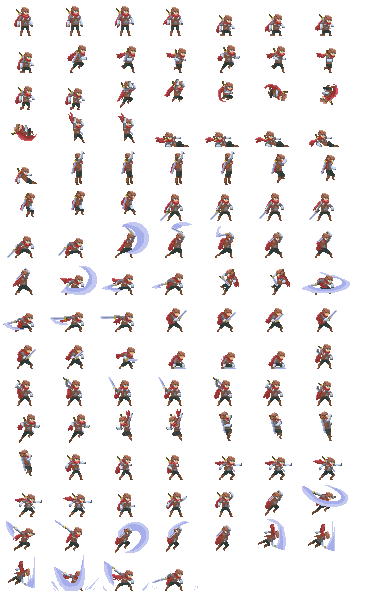
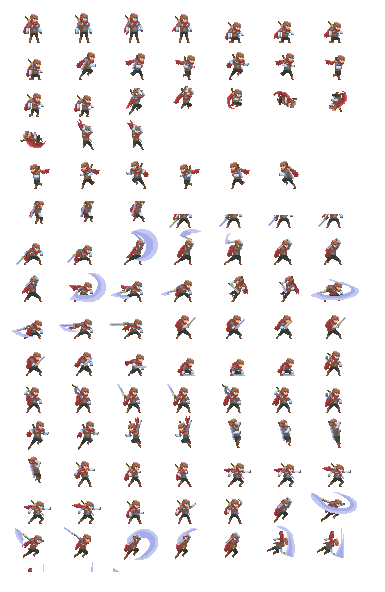
working left/right/idle animation, wow finally

diff --git a/src/animation.js b/src/animation.js
@@ -9,54 +9,83 @@ export default class Animator {
         this.delay = 25;
         this.frame = 0;
         this.frame_index = 0;
-        this.frame_set = 
+        this.frame_set =
             [
-                [0,1,2,3],
-                [9, 10, 11, 12, 13, 14]
+                [0, 1, 2, 3],
+                [9, 10, 11, 12, 13, 14],
+                [32, 33, 34, 35, 36, 37]
             ]
-        
+
 
     }
 
     update() {
-        // if(this.player.speed > 0) {
-        //     this.direction = 1;
-        // }
-        // if(this.player.speed < 0) {
-        //     this.direction = 1;
-        // }
-        // if(this.player.speed === 0) {
-        //     this.direction = 0;
-        // }     
-        this.count ++;
+        this.count++;
         if (this.count >= this.delay) {
             this.count = 0;
             this.frame_index = (this.frame_index == this.frame_set[this.direction].length - 1) ? 0 : this.frame_index + 1;
             this.frame = this.frame_set[this.direction][this.frame_index]
+            // console.log(this.frame, this.frame_index)            
+
         }
     }
 
-    draw(ctx) {   
-        
-        let currentFrame = this.frame_set[this.direction][this.frame_index] + 1;
+    changeDirection(direction) {
+        this.frame_index = 0;
+        this.direction = direction;
+    }
+
+    draw(ctx) {
+
+        if (this.frame_set[this.direction][this.frame_index] >= 0) {
+            var currentFrame = this.frame_set[this.direction][this.frame_index] + 1
+        }
         if (currentFrame * 48.125 > 385) {
             while (currentFrame * 48.125 > 385) {
                 this.spriteCount += 1;
                 currentFrame -= 8;
             }
         }
-        // console.log(this.spriteCount, currentFrame)
-        ctx.drawImage(
-            this.image,
-            ((currentFrame - 1) * 50),
-            (this.spriteCount * 37),
-            48,
-            37,
-            this.player.position.x - 20,
-            this.player.position.y - 10,
-            72,
-            55.5
-        );
+        console.log(this.frame_index)
+        if (this.direction === 2) {
+            ctx.drawImage(
+                this.image,
+                ((currentFrame - 1) * 50),
+                ((this.spriteCount * 37) + 10),
+                48,
+                37,
+                this.player.position.x - 42,
+                this.player.position.y - 2,
+                72,
+                55.5
+            );
+        }
+        else if (this.direction === 1) {
+            ctx.drawImage(
+                this.image,
+                ((currentFrame - 1) * 50),
+                ((this.spriteCount * 37) + 10),
+                48,
+                37,
+                this.player.position.x - 40,
+                this.player.position.y - 5,
+                72,
+                55.5
+            );
+        }
+        else {
+            ctx.drawImage(
+                this.image,
+                ((currentFrame - 1) * 50),
+                (this.spriteCount + 10),
+                48,
+                37,
+                this.player.position.x - 35,
+                this.player.position.y - 4,
+                72,
+                55.5
+            );
+        }
         this.spriteCount = 0;
     }
 

diff --git a/src/inputHandler.js b/src/inputHandler.js
@@ -6,6 +6,8 @@ export default class InputHandler {
         this.animator = animator;
         this.keyDownEvent = false;
         this.keyUpEvent = false;
+        this.animationChange = false;
+        this.animationChangeChk = false;
 
         this.keyState = {
             37: false,
@@ -19,16 +21,22 @@ export default class InputHandler {
         window.addEventListener('keydown', (e) => {
             if (e.keyCode === 87 || e.keyCode === 38) {
                 this.keyDownEvent = true;
-                this.animator.count = 0;
-
             }
+            console.log(e.keyCode)
+            if (e.keyCode === 39 || e.keyCode === 68 || e.keyCode === 37 || e.keyCode === 65) {
+                this.animationChange = true;
+            }
+            console.log(this.animationChange)
             this.keyState[e.keyCode || e.which] = true;
         }, true);
 
         window.addEventListener('keyup', (e) => {
             if (e.keyCode === 87 || e.keyCode === 38) {
                 this.keyUpEvent = false;
-                this.animator.count = 0;
+            }
+            if (e.keyCode === 39 || e.keyCode === 68 || e.keyCode === 37 || e.keyCode === 65) {
+                this.animationChangeChk = false;
+                this.animator.changeDirection(0)
             }
             this.keyState[e.keyCode || e.which] = false;
         }, true);
@@ -39,21 +47,25 @@ export default class InputHandler {
     keyHandler() {
         if ((this.keyState[38] || this.keyState[87]) && (this.keyDownEvent && !this.keyUpEvent)) {
             this.keyUpEvent = true;
-            console.log(this.keyUpEvent)
 
             this.player.jump();
         }
         if (this.keyState[37] || this.keyState[65]) {
             this.player.moveLeft();
+            if(this.animationChange && !this.animationChangeChk){
+                this.animationChangeChk = true;
+                this.animator.changeDirection(2);
+            }
         }
         else if (this.keyState[39] || this.keyState[68]) {
             this.player.moveRight();
-            this.animator.direction = 1;
-
+            if(this.animationChange && !this.animationChangeChk){
+                this.animationChangeChk = true;
+                this.animator.changeDirection(1);
+            }
         }
         else {
             this.player.speed = 0;
-            this.animator.direction = 0;
         }
     }
 }
